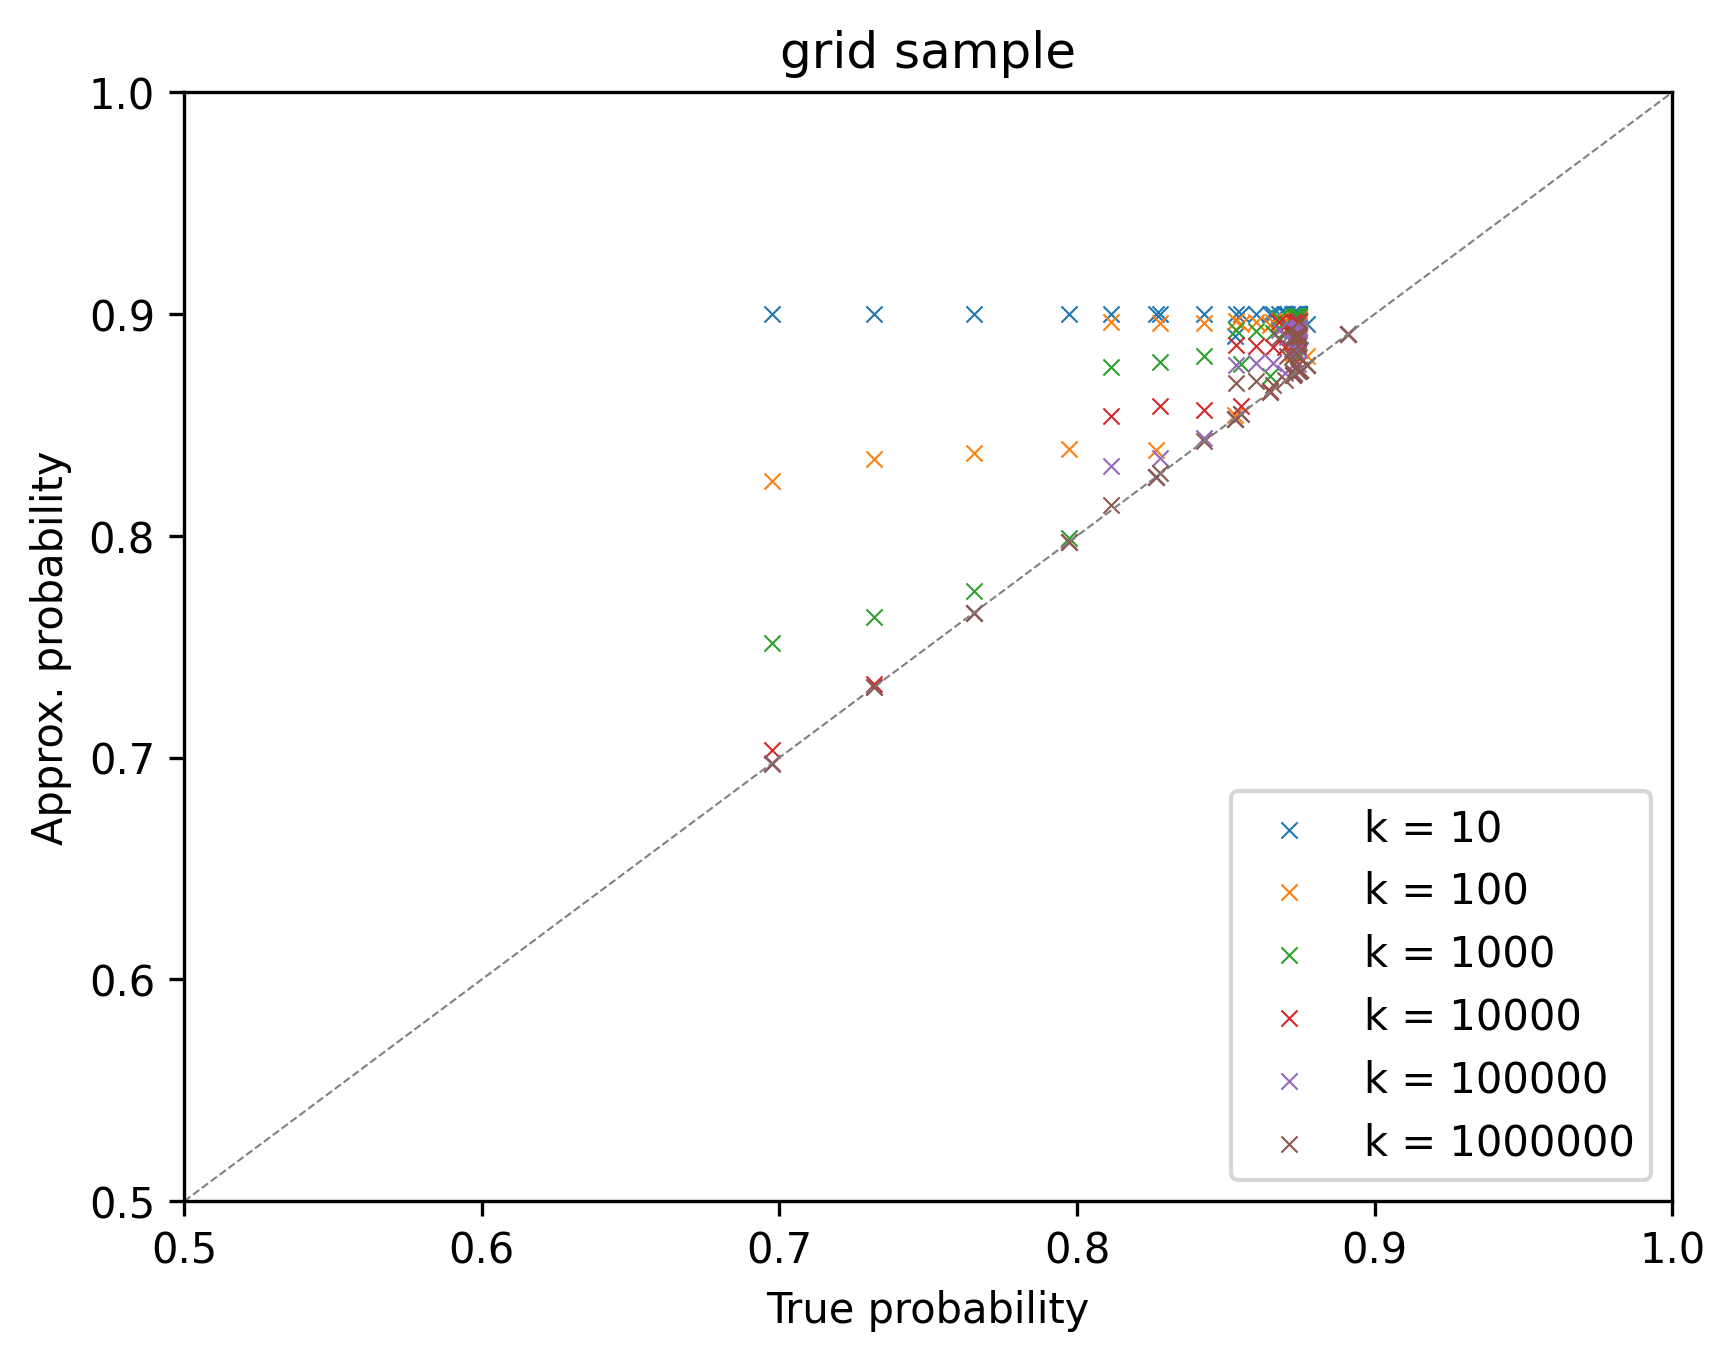
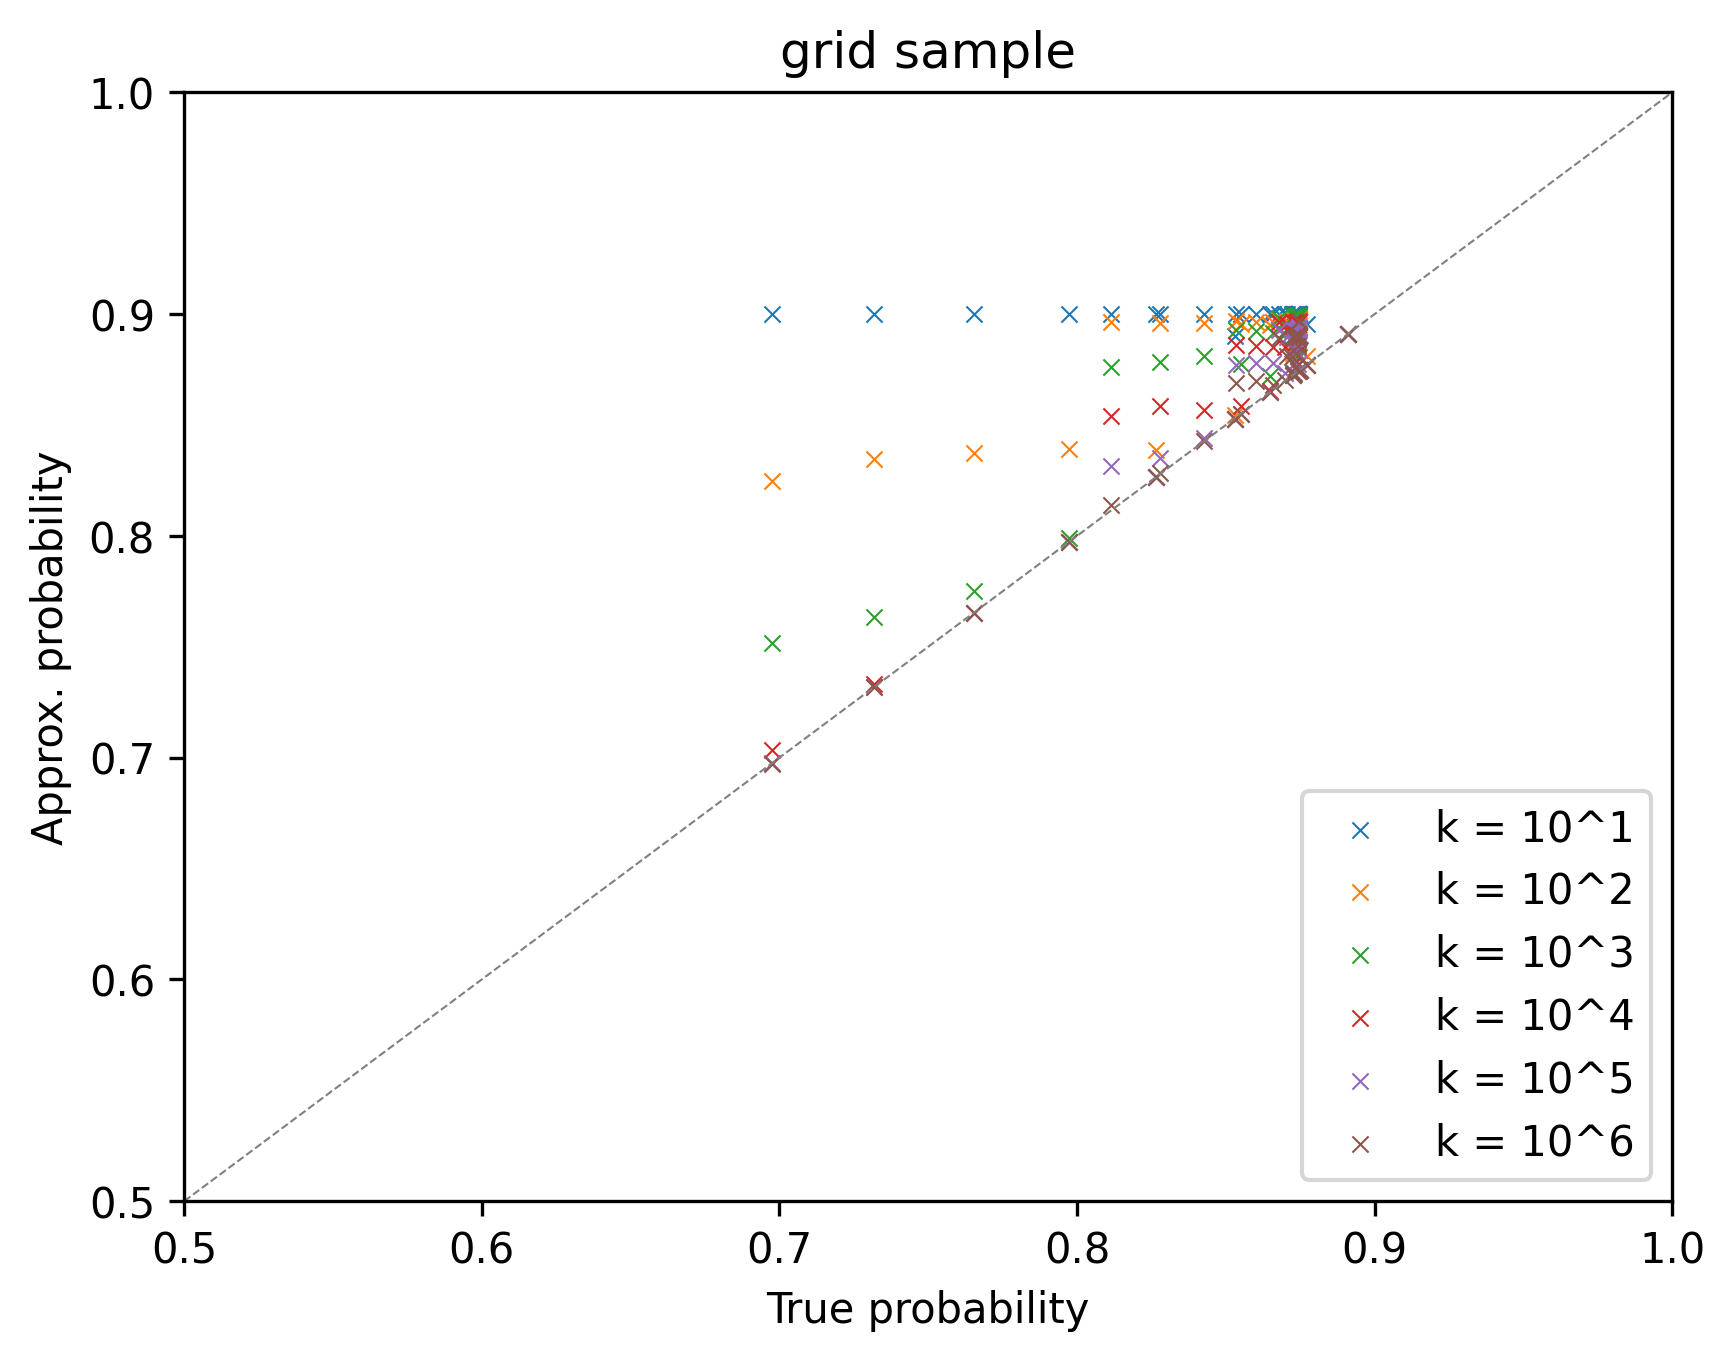
plot script gives avg error

Changed region(s): [[0.7781, 0.5863, 0.9337, 0.8641]]

diff --git a/benchmarks/scripts/plot.py b/benchmarks/scripts/plot.py
@@ -446,7 +446,21 @@ if __name__ == "__main__":
             # max = str(labels[-1][1]).split('_')[1][1:]
             # file_name_img = f'plots/img/{dom}/{prefix}-{min}-{max}.png'
 
-            label = f'k = {str(name[1]).split("_")[1][1:]}'
+            # k = str(name[1]).split("_")[1][1:]
+            label = f'k = 10^{len(name[1][5:])}'
+
+            abs_error = np.abs(true_prob - query_df[name].to_numpy())
+            rel_error = (abs_error / true_prob) * 100
+
+            print(label)
+            print(
+                f'Avg. error: {abs_error.mean():.3f} +- {abs_error.std():.3f}')
+            print(f'Max error: {abs_error.max():.3f}')
+            print(
+                f'Avg. relative error: {rel_error.mean():.2f} +- {rel_error.std():.2f}'
+            )
+            print("")
+
             plt.scatter(x=true_prob,
                         y=query_df[name].to_numpy(),
                         marker='x',
